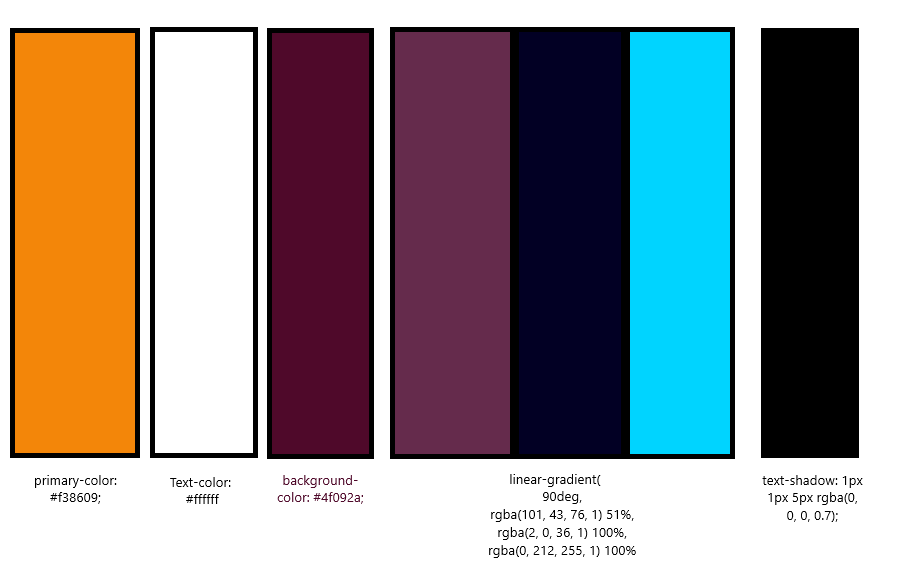
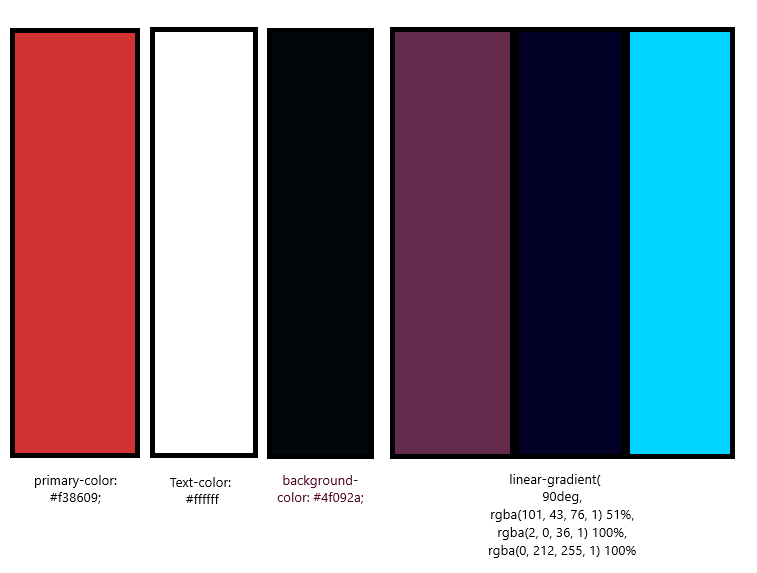
adding wireframes images

diff --git a/assets/css/style.css b/assets/css/style.css
@@ -16,6 +16,7 @@
   );
 }
 body {
+  font-family: var(--primary-font);
   background: var(--background-color);
 }
 

diff --git a/README.md b/README.md
@@ -68,27 +68,30 @@ I have chose the color based on the mystical theme that the page is build on.
 
 In my css file i have mostly used variables to declare color, and used these throughout the css file.
 its useful to ise the same color code if you wish to alter the color on the webpage.
-* I have used #f38609 & #ffffff as the primary and secondary color used for the sites text.
+* I have used #d13333 & #ecbdbd as the primary and secondary color used for the sites text.
 * I have used gradient-bg: linear-gradient
     90deg,
     rgba(101, 43, 76, 1) 51%,
     rgba(2, 0, 36, 1) 100%,
     rgba(0, 212, 255, 1) 100%
 as the background-color.
-* I have used text-shadow: 1px 1px 5px rgba(0, 0, 0, 0.7) as text-shadow.
-* I have used #ffffff as the border color.
+* I have used background-color: #01060a as background-color.
+* I have used #d13333 as the border color.
 
 ![color-scheme](assets/images/color-scheme.png)
 ### Typography
 Google Fonts was used to import the chosen fonts for the site.
-* For the header i used the google font [Londrina Shadow](https://fonts.google.com/specimen/Londrina+Shadow?preview.text=Mysterious%20Things%20-%20Londrina%20Shadow)
+* For almost all text i used the google font [Delius](https://fonts.google.com/specimen/Delius?preview.text=Mysterious%20Things)
 
-![Londrina](assets/images/Londrina-Shadow.png)
+![Delius](assets/images/delius.png)
 
+* For the big texts i used [Nosifer](https://fonts.google.com/specimen/Nosifer?preview.text=Mysterious%20Things)
+
+![Nosifer](assets/images/nosifer.png)
 ### Images
-* 
-
+* As the website is called Mysterious Things, i wanted to use a page background of a tarot card that give the user a mysterious feeling.
 ### Wireframe 
+Wireframes were created for mobile, tablet and laptops using balsamiq.
 
 ### Features 
 
